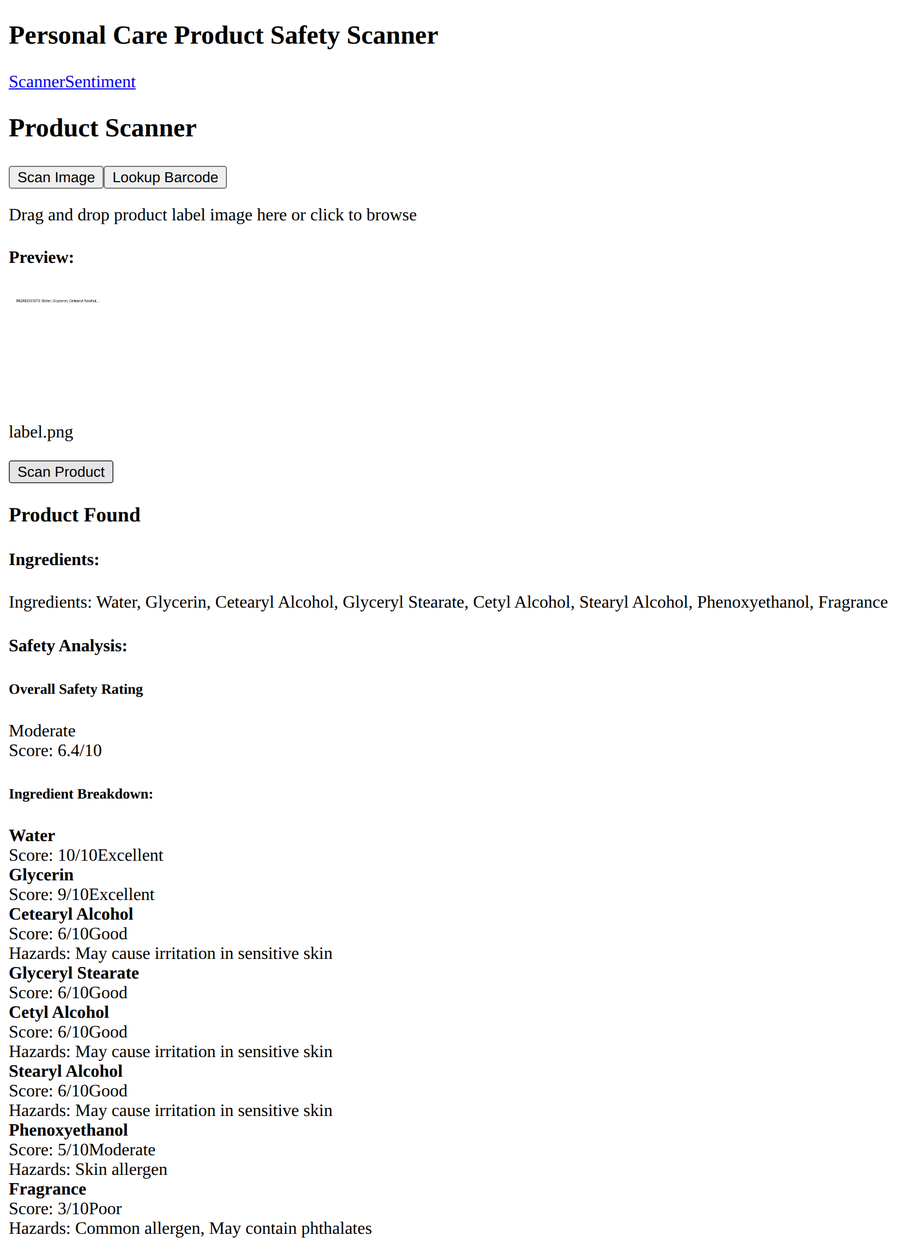
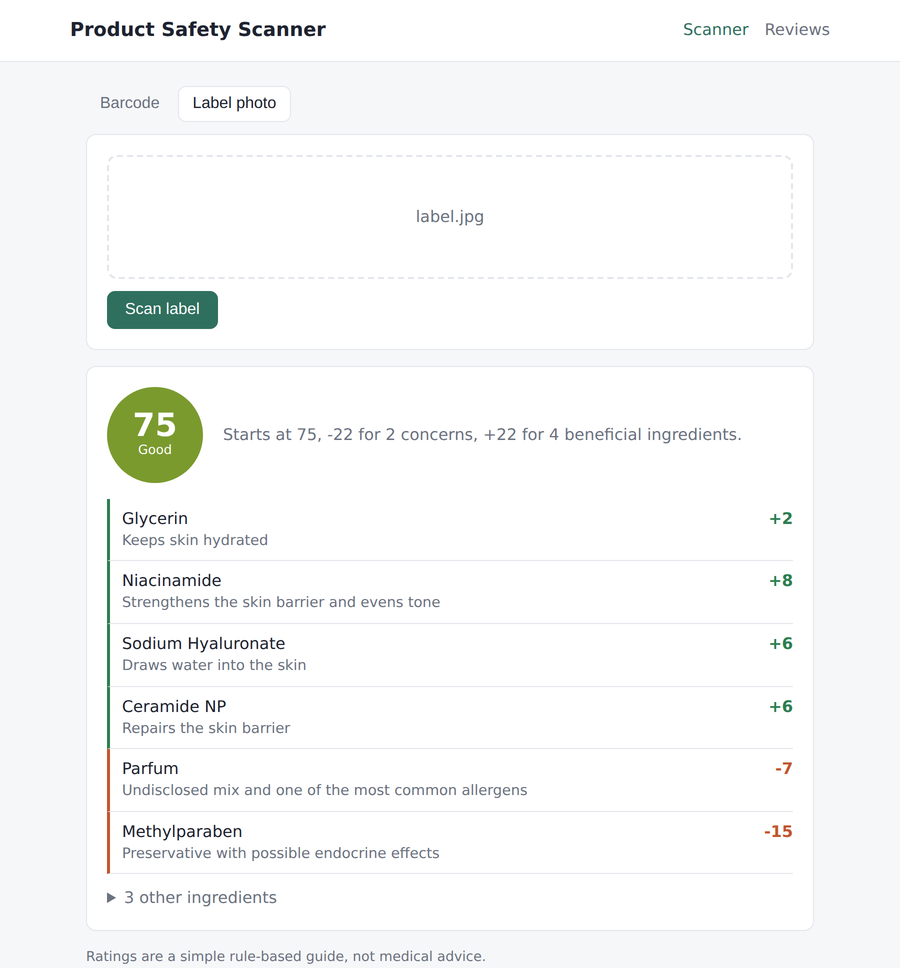
Update README and screenshots for the new scanner

diff --git a/README.md b/README.md
@@ -4,150 +4,140 @@
 ![Python](https://img.shields.io/badge/Python-3.11-3776AB?logo=python&logoColor=white)
 ![FastAPI](https://img.shields.io/badge/FastAPI-009688?logo=fastapi&logoColor=white)
 ![React](https://img.shields.io/badge/React-20232A?logo=react&logoColor=61DAFB)
-![NLTK](https://img.shields.io/badge/NLP-NLTK%20VADER-154F5B)
+![Tesseract](https://img.shields.io/badge/OCR-Tesseract-5A5A5A)
 
-A full-stack app that looks up a cosmetic or skincare product, rates its
-ingredient list for safety, and runs sentiment analysis over product reviews
-to surface common complaints (rashes, breakouts, dryness and so on).
+Scan a skincare product by barcode or by photographing its ingredient list,
+and get a 0–100 rating that explains exactly which ingredients moved the score
+and why. There's also a small NLP dashboard that runs sentiment analysis over
+product reviews and pulls out the problems people mention (rashes, breakouts,
+dryness and so on).
 
-![Scanner screenshot — ingredient list with an overall safety rating and a per-ingredient breakdown](docs/screenshot-scan.png)
+<p>
+  <img src="docs/screenshot-scan.png" width="49%" alt="Label scan result with score and ingredient breakdown">
+  <img src="docs/screenshot-reviews.png" width="49%" alt="Review sentiment dashboard">
+</p>
 
 ## Why I built this
 
-Ingredient lists on skincare products are long and hard to read, and reviews
-are scattered across sites. I wanted one place to answer two questions:
-*what's actually in this product?* and *what do people who used it say?*
+<!-- Write this in your own words: what made you want to build it, what you wanted to learn. -->
 
 ## How it works
 
 ```
- barcode / label image
-          │
-          ▼
- ┌──────────────────┐     ┌──────────────────────────┐     ┌────────────────────┐
- │ 1. Ingest         │ ──▶ │ 2. Enrich                 │ ──▶ │ 3. Rate             │
- │ barcode or label  │     │ Open Beauty Facts REST API│     │ rule-based scoring  │
- │ upload            │     │ → product + ingredients   │     │ 0–100 + explanation │
- └──────────────────┘     └──────────────────────────┘     └────────────────────┘
+barcode ──► Open Beauty Facts / Open Food Facts ──┐
+                                                  ├──► ingredient list ──► scorer ──► score + breakdown
+photo ────► Tesseract OCR ──► ingredient parser ──┘
 
- review dataset (CSV) ──▶ 4. NLP: VADER sentiment + keyword issue extraction ──▶ dashboard
+reviews.csv ──► VADER sentiment + issue keywords ──► dashboard
 ```
 
-1. **Ingest:** look up a product by barcode, or upload a label image.
-2. **Enrich:** `backend/app/services/openbeautyfacts.py` calls the
-   [Open Beauty Facts](https://world.openbeautyfacts.org/) API and normalises
-   the ingredient list (structured list first, falling back to parsing the
-   free-text field).
-3. **Rate:** `backend/app/services/rating_algorithm.py` starts every product at
-   a baseline of 70. It deducts points for flagged ingredients (parabens,
-   formaldehyde releasers, sulfates, fragrance and others), weighted by
-   severity and category, and adds points for beneficial ones (ceramides,
-   niacinamide, hyaluronic acid and others). The score is capped per product
-   type and mapped to a band: Excellent, Good, Moderate, Poor or Avoid.
-   Every deduction is returned with a reason, so the score can be explained.
-4. **NLP:** `nlp/sentiment_analyzer.py` classifies reviews with NLTK's VADER
-   and tags reported issues with keyword matching. The results feed the
-   sentiment dashboard.
+**Barcode lookup** (`services/openbeautyfacts.py`) tries Open Beauty Facts
+first and falls back to Open Food Facts, which also lists some toiletries.
+Timeouts and upstream errors come back as a clear 502 instead of a crash.
 
-### Current limitations (being upfront)
+**Label photos** (`services/ocr.py`) are converted to greyscale, upscaled
+and contrast-stretched before going through Tesseract. The parser then finds
+the "Ingredients:" heading (English, French, German or INCI), stops at things
+like "Directions:", repairs words hyphenated across a line break and splits
+the list.
 
-- **The OCR step is a stub.** `POST /api/ocr/extract-text` accepts an image,
-  but it returns a known ingredient list based on the filename. It doesn't
-  read the pixels yet. Adding real OCR (Tesseract or a cloud vision API) is
-  first on the roadmap. Barcode lookup uses real live data.
-- **The review data is synthetic.** `scraper/download_beauty_dataset.py`
-  generates a synthetic review set for development. If no processed results
-  file exists, the sentiment endpoint returns sample figures. See
-  [`docs/ethics.md`](docs/ethics.md) for why the project doesn't scrape
-  review sites.
-- The ingredient ratings are a heuristic for learning purposes, **not medical
-  or dermatological advice.**
+**Scoring** (`services/scoring.py`, rules in `rules.py`):
+
+- every product starts at **75**
+- each flagged ingredient takes off **15 / 7 / 3** points for high / medium / low concern
+- beneficial ingredients add points, capped at **+25** in total so a long list of actives can't hide a real problem
+- the result is clamped to 0–100 and banded Excellent / Good / Moderate / Poor / Avoid
+
+Each ingredient is matched once, against the first rule that fits. Matches
+respect word boundaries, so *methylparaben* isn't also counted as
+*ethylparaben*, and *cetearyl alcohol* (a harmless fatty alcohol) isn't
+treated like drying *alcohol denat.* The API returns the base score, penalty
+and bonus alongside the per-ingredient points, so the total can always be
+checked by hand.
+
+**Reviews** (`services/sentiment.py`) are classified with NLTK's VADER.
+Issues are picked up with whole-word keyword matching, but only in reviews
+that aren't happy ones, so "no irritation at all" isn't counted as an
+irritation report.
 
 ## Tech stack
 
-- **Backend:** Python 3.11, FastAPI, httpx (async), Pydantic
+- **Backend:** Python 3.11, FastAPI, httpx, Pydantic, Pillow, pytesseract
 - **NLP / data:** NLTK (VADER), pandas
-- **Frontend:** React, React Router, axios
-- **Testing:** pytest (41 tests), FastAPI `TestClient`, `httpx.MockTransport`
-- **CI:** GitHub Actions runs the Python tests and builds the frontend on
-  every push
-
-## Project structure
-
-```
-personal-care-product-scanner/
-├── backend/app/
-│   ├── api/          # FastAPI routers: ocr, rating, sentiment
-│   ├── services/     # Open Beauty Facts client, rating algorithm
-│   └── main.py       # App entry point, barcode lookup endpoint
-├── nlp/              # Sentiment analyser + analysis scripts
-├── scraper/          # Dataset generation / review collection scripts
-├── frontend/src/     # React UI: scanner page, sentiment dashboard
-├── tests/            # pytest suite
-└── docs/             # Screenshots, ethics notes
-```
+- **Frontend:** React, React Router, axios, react-dropzone
+- **Testing / CI:** pytest (61 tests), FastAPI `TestClient`, `httpx.MockTransport`, GitHub Actions
 
 ## Running locally
 
-**Backend** (http://localhost:8000, interactive API docs at `/docs`):
+You'll need Python 3.11+, Node 18+ and, for photo scanning,
+[Tesseract](https://tesseract-ocr.github.io/tessdoc/Installation.html)
+(`brew install tesseract`, `sudo apt install tesseract-ocr`, or the Windows
+installer). Everything else works without it.
 
 ```bash
+# backend, on http://localhost:8000 (interactive docs at /docs)
 cd backend
 python -m venv venv
-# Windows: venv\Scripts\activate    Mac/Linux: source venv/bin/activate
+source venv/bin/activate        # Windows: venv\Scripts\activate
 pip install -r requirements.txt
-python -m nltk.downloader vader_lexicon
 uvicorn app.main:app --reload
 ```
 
-**Frontend** (http://localhost:3000):
-
 ```bash
+# frontend, on http://localhost:3000
 cd frontend
 npm install
 npm start
 ```
+
+Configuration is through environment variables:
+
+| Variable | Default | Used for |
+|---|---|---|
+| `CORS_ORIGINS` | `http://localhost:3000` | Comma-separated origins allowed to call the API |
+| `REVIEWS_FILE` | `data/reviews/reviews.csv` | Review data for the dashboard |
+| `MAX_UPLOAD_MB` | `8` | Largest label photo accepted |
+| `REACT_APP_API_URL` | `http://localhost:8000` | Where the frontend sends requests (see `frontend/.env.example`) |
+
+## API
+
+| Method | Endpoint | Description |
+|---|---|---|
+| GET | `/api/products/{barcode}` | Look up a product and rate its ingredients |
+| POST | `/api/scan` | Upload a label photo; returns the OCR text, parsed ingredients and rating |
+| POST | `/api/rating` | Rate a list of ingredients: `{"ingredients": ["Aqua", "Parfum"]}` |
+| GET | `/api/rating/ingredient/{name}` | Explain how a single ingredient is treated |
+| GET | `/api/reviews/summary` | Sentiment breakdown and most common issues |
+| GET | `/health` | Health check |
 
 ## Tests
 
 ```bash
 pip install -r requirements-dev.txt
 python -m nltk.downloader vader_lexicon
-pytest -v
+pytest
 ```
 
-The suite covers each stage of the pipeline independently:
+The tests cover the ingredient rules (including the lookalike cases above),
+the score arithmetic, the OCR text parser, the product lookup with the HTTP
+layer mocked, the sentiment analysis, and every API endpoint's success and
+error paths. Tesseract isn't needed to run them.
 
-| File | What it checks |
-|------|----------------|
-| `tests/test_openbeautyfacts.py` | API client parsing, text fallback, not-found, HTTP and network errors (the HTTP layer is mocked, so there are no real network calls) |
-| `tests/test_rating_algorithm.py` | Score bounds, rating bands, product-type caps, case-insensitivity, overlapping ingredient names, batch ranking |
-| `tests/test_sentiment_analyzer.py` | Positive/negative/neutral classification, issue extraction, report aggregation |
-| `tests/test_api.py` | Endpoints end to end through FastAPI's `TestClient`, including request validation |
+## Limitations
 
-The tests found two real bugs, both now fixed and covered by regression
-tests:
-
-- "Methylparaben" also matched the "ethylparaben" rule as a substring, so it
-  was penalised twice.
-- The frontend sent `{"ingredients": [...]}` to `/api/ocr/batch-check`, but
-  the endpoint expected a bare list, so every safety check from the UI failed
-  with a 422 error.
-
-## API overview
-
-| Method | Endpoint | Description |
-|--------|----------|-------------|
-| GET  | `/api/beauty/lookup/{barcode}` | Look up a product on Open Beauty Facts and attach a safety rating |
-| POST | `/api/rating/rate-product` | Rate an ingredient list |
-| GET  | `/api/rating/ingredient-info/{name}` | Explain why one ingredient is flagged or beneficial |
-| POST | `/api/ocr/batch-check` | Per-ingredient safety breakdown |
-| POST | `/api/ocr/extract-text` | Label image upload (stubbed OCR, see limitations) |
-| GET  | `/api/sentiment/summary` | Aggregated review sentiment and top issues |
+- **The review data is synthetic.** `scripts/generate_reviews.py` builds it
+  from templates with made-up product names, so the dashboard shows the
+  pipeline working rather than real findings. The dashboard says so. See
+  [`docs/ethics.md`](docs/ethics.md) for why I didn't scrape a review site.
+- **The scoring is a heuristic.** The rules and points are my own judgement
+  from public sources. It ignores concentration, and an ingredient flagged
+  here is often fine at the levels actually used. It isn't medical advice.
+- **OCR depends on the photo.** Curved bottles, glare and tiny print still
+  cause misreads. The response includes the raw OCR text so you can see what
+  was read.
 
 ## Roadmap
 
-- Real OCR for label images (Tesseract / cloud vision)
 - Replace the synthetic reviews with a properly licensed public dataset
-- Move the hard-coded ingredient rules into a data file with cited sources
-- Deploy the backend and frontend with a live demo link
+- Weight concerns by position in the ingredient list (a rough proxy for concentration)
+- Deploy with a live demo link

diff --git a/docs/ethics.md b/docs/ethics.md
@@ -2,29 +2,32 @@
 
 ## Review data
 
-Many retail and review sites forbid automated scraping in their Terms of
-Service. So this project:
+Most retail and review sites ban automated scraping in their terms of
+service, so this project doesn't scrape any of them. The dashboard runs on a
+synthetic dataset from `scripts/generate_reviews.py`:
 
-- uses a **synthetic review dataset** (`scraper/download_beauty_dataset.py`)
-  during development
-- keeps the scraper scripts in `scraper/` as experiments only; they are not
-  part of the running app and shouldn't be pointed at sites whose terms
-  prohibit it
-- would move to a properly licensed public dataset for any real use
+- the reviews come from templates, not real customers
+- the product names are made up, so no real brand gets fake reviews attached to it
+- every row is marked `source: synthetic`, and the dashboard shows a notice when it's using that data
 
-The review data has no reviewer names or personal information.
+For real use, this would move to a properly licensed public review dataset.
 
 ## Product data
 
 Product and ingredient data comes from
-[Open Beauty Facts](https://world.openbeautyfacts.org/), an open database
-licensed under the Open Database License (ODbL). Requests identify the app
-with a custom `User-Agent`, as the project asks.
+[Open Beauty Facts](https://world.openbeautyfacts.org/) and
+[Open Food Facts](https://world.openfoodfacts.org/), both open databases
+under the Open Database License (ODbL). Requests identify the app with a
+custom `User-Agent`, as those projects ask.
 
-## Safety ratings are not medical advice
+## Ratings are not medical advice
 
-The ingredient scores are a rule-based heuristic built for learning. Whether
-an ingredient is a concern often depends on its concentration, the product
-type and the person using it. The app says an ingredient is "flagged", not
-that it's "unsafe". Anyone with skin conditions or allergies should rely on
-a dermatologist or pharmacist, not this tool.
+The ingredient scores are a rule-based heuristic I wrote while learning.
+Whether an ingredient is a concern depends on its concentration, the
+product type and the person using it, and none of that is modelled. The app
+says an ingredient is "flagged", not that it's "unsafe". Anyone with skin
+conditions or allergies should speak to a dermatologist or pharmacist.
+
+## Label photos
+
+Uploaded photos are processed in memory and never saved.
